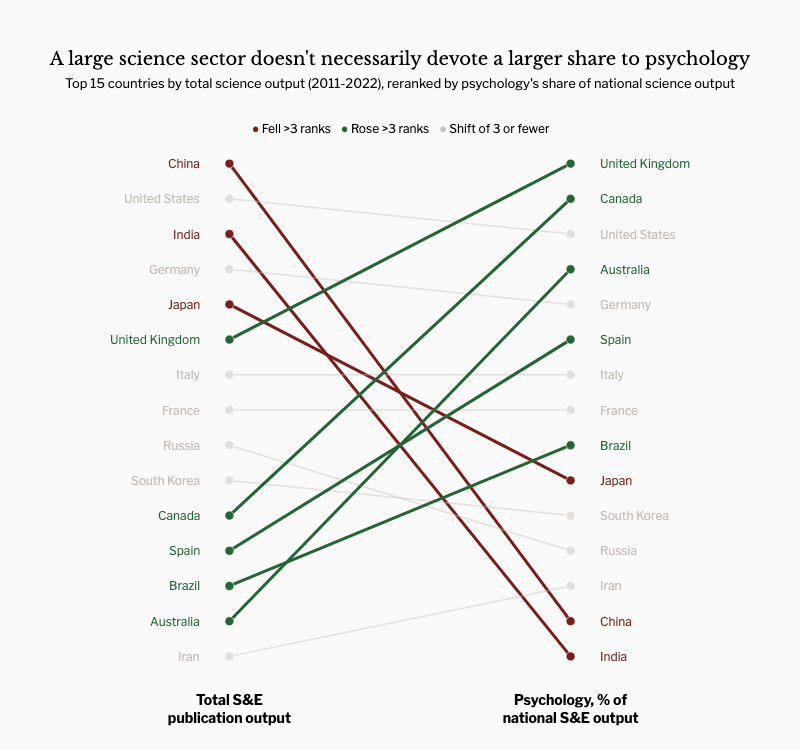
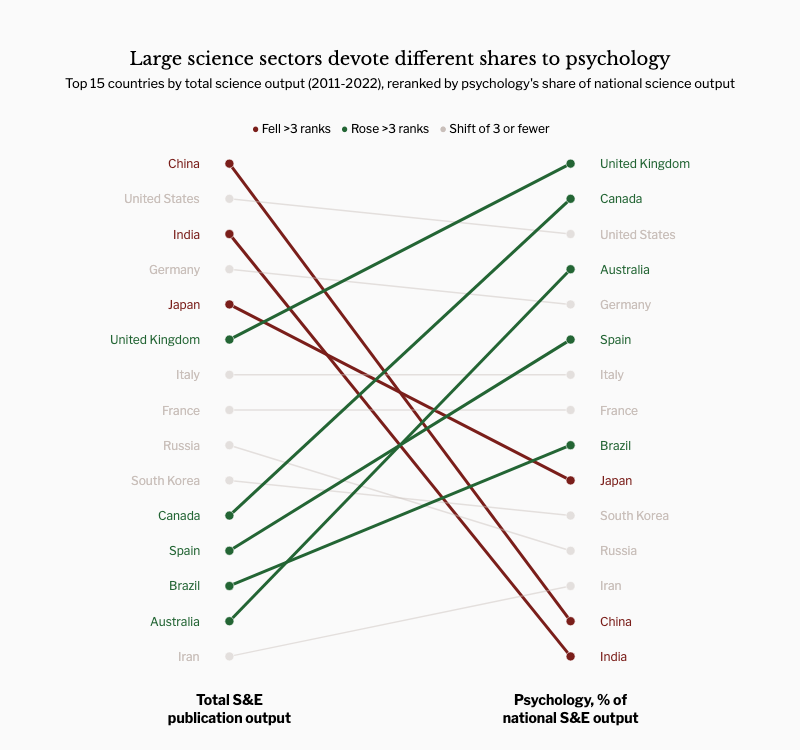
edit rank plot and rho to clarify implications of science vs psych share

Changed region(s): [[0.0625, 0.0613, 0.9375, 0.092]]

diff --git a/docs/chart-data.js b/docs/chart-data.js
@@ -78,21 +78,21 @@ window.CHART_SPECS = [
 }},
 {"id": "c2",
  "data": [
-  {"hovertemplate": "<b>China</b><br>#1 in total science output<br>#14 by psychology's share of national science output<extra></extra>", "line": {"color": "#7A1E1A", "width": 3}, "marker": {"color": "#7A1E1A", "line": {"color": "white", "width": 0.6}, "size": 9}, "mode": "lines+markers", "opacity": 1.0, "showlegend": false, "x": [0, 1], "y": [1.0, 14.0], "type": "scatter"},
-  {"hovertemplate": "<b>United States</b><br>#2 in total science output<br>#3 by psychology's share of national science output<extra></extra>", "line": {"color": "#C9BFBA", "width": 1.5}, "marker": {"color": "#C9BFBA", "line": {"color": "white", "width": 0.6}, "size": 9}, "mode": "lines+markers", "opacity": 0.45, "showlegend": false, "x": [0, 1], "y": [2.0, 3.0], "type": "scatter"},
-  {"hovertemplate": "<b>India</b><br>#3 in total science output<br>#15 by psychology's share of national science output<extra></extra>", "line": {"color": "#7A1E1A", "width": 3}, "marker": {"color": "#7A1E1A", "line": {"color": "white", "width": 0.6}, "size": 9}, "mode": "lines+markers", "opacity": 1.0, "showlegend": false, "x": [0, 1], "y": [3.0, 15.0], "type": "scatter"},
-  {"hovertemplate": "<b>Germany</b><br>#4 in total science output<br>#5 by psychology's share of national science output<extra></extra>", "line": {"color": "#C9BFBA", "width": 1.5}, "marker": {"color": "#C9BFBA", "line": {"color": "white", "width": 0.6}, "size": 9}, "mode": "lines+markers", "opacity": 0.45, "showlegend": false, "x": [0, 1], "y": [4.0, 5.0], "type": "scatter"},
-  {"hovertemplate": "<b>Japan</b><br>#5 in total science output<br>#10 by psychology's share of national science output<extra></extra>", "line": {"color": "#7A1E1A", "width": 3}, "marker": {"color": "#7A1E1A", "line": {"color": "white", "width": 0.6}, "size": 9}, "mode": "lines+markers", "opacity": 1.0, "showlegend": false, "x": [0, 1], "y": [5.0, 10.0], "type": "scatter"},
-  {"hovertemplate": "<b>United Kingdom</b><br>#6 in total science output<br>#1 by psychology's share of national science output<extra></extra>", "line": {"color": "#236534", "width": 3}, "marker": {"color": "#236534", "line": {"color": "white", "width": 0.6}, "size": 9}, "mode": "lines+markers", "opacity": 1.0, "showlegend": false, "x": [0, 1], "y": [6.0, 1.0], "type": "scatter"},
-  {"hovertemplate": "<b>Italy</b><br>#7 in total science output<br>#7 by psychology's share of national science output<extra></extra>", "line": {"color": "#C9BFBA", "width": 1.5}, "marker": {"color": "#C9BFBA", "line": {"color": "white", "width": 0.6}, "size": 9}, "mode": "lines+markers", "opacity": 0.45, "showlegend": false, "x": [0, 1], "y": [7.0, 7.0], "type": "scatter"},
-  {"hovertemplate": "<b>France</b><br>#8 in total science output<br>#8 by psychology's share of national science output<extra></extra>", "line": {"color": "#C9BFBA", "width": 1.5}, "marker": {"color": "#C9BFBA", "line": {"color": "white", "width": 0.6}, "size": 9}, "mode": "lines+markers", "opacity": 0.45, "showlegend": false, "x": [0, 1], "y": [8.0, 8.0], "type": "scatter"},
-  {"hovertemplate": "<b>Russia</b><br>#9 in total science output<br>#12 by psychology's share of national science output<extra></extra>", "line": {"color": "#C9BFBA", "width": 1.5}, "marker": {"color": "#C9BFBA", "line": {"color": "white", "width": 0.6}, "size": 9}, "mode": "lines+markers", "opacity": 0.45, "showlegend": false, "x": [0, 1], "y": [9.0, 12.0], "type": "scatter"},
-  {"hovertemplate": "<b>South Korea</b><br>#10 in total science output<br>#11 by psychology's share of national science output<extra></extra>", "line": {"color": "#C9BFBA", "width": 1.5}, "marker": {"color": "#C9BFBA", "line": {"color": "white", "width": 0.6}, "size": 9}, "mode": "lines+markers", "opacity": 0.45, "showlegend": false, "x": [0, 1], "y": [10.0, 11.0], "type": "scatter"},
-  {"hovertemplate": "<b>Canada</b><br>#11 in total science output<br>#2 by psychology's share of national science output<extra></extra>", "line": {"color": "#236534", "width": 3}, "marker": {"color": "#236534", "line": {"color": "white", "width": 0.6}, "size": 9}, "mode": "lines+markers", "opacity": 1.0, "showlegend": false, "x": [0, 1], "y": [11.0, 2.0], "type": "scatter"},
-  {"hovertemplate": "<b>Spain</b><br>#12 in total science output<br>#6 by psychology's share of national science output<extra></extra>", "line": {"color": "#236534", "width": 3}, "marker": {"color": "#236534", "line": {"color": "white", "width": 0.6}, "size": 9}, "mode": "lines+markers", "opacity": 1.0, "showlegend": false, "x": [0, 1], "y": [12.0, 6.0], "type": "scatter"},
-  {"hovertemplate": "<b>Brazil</b><br>#13 in total science output<br>#9 by psychology's share of national science output<extra></extra>", "line": {"color": "#236534", "width": 3}, "marker": {"color": "#236534", "line": {"color": "white", "width": 0.6}, "size": 9}, "mode": "lines+markers", "opacity": 1.0, "showlegend": false, "x": [0, 1], "y": [13.0, 9.0], "type": "scatter"},
-  {"hovertemplate": "<b>Australia</b><br>#14 in total science output<br>#4 by psychology's share of national science output<extra></extra>", "line": {"color": "#236534", "width": 3}, "marker": {"color": "#236534", "line": {"color": "white", "width": 0.6}, "size": 9}, "mode": "lines+markers", "opacity": 1.0, "showlegend": false, "x": [0, 1], "y": [14.0, 4.0], "type": "scatter"},
-  {"hovertemplate": "<b>Iran</b><br>#15 in total science output<br>#13 by psychology's share of national science output<extra></extra>", "line": {"color": "#C9BFBA", "width": 1.5}, "marker": {"color": "#C9BFBA", "line": {"color": "white", "width": 0.6}, "size": 9}, "mode": "lines+markers", "opacity": 0.45, "showlegend": false, "x": [0, 1], "y": [15.0, 13.0], "type": "scatter"}
+  {"hovertemplate": "<b>China</b><br>#1 in total science output<br>#14 by psychology's share of national science output (0.5%)<extra></extra>", "line": {"color": "#7A1E1A", "width": 3}, "marker": {"color": "#7A1E1A", "line": {"color": "white", "width": 0.6}, "size": 9}, "mode": "lines+markers", "opacity": 1.0, "showlegend": false, "x": [0, 1], "y": [1.0, 14.0], "type": "scatter"},
+  {"hovertemplate": "<b>United States</b><br>#2 in total science output<br>#3 by psychology's share of national science output (3.8%)<extra></extra>", "line": {"color": "#C9BFBA", "width": 1.5}, "marker": {"color": "#C9BFBA", "line": {"color": "white", "width": 0.6}, "size": 9}, "mode": "lines+markers", "opacity": 0.45, "showlegend": false, "x": [0, 1], "y": [2.0, 3.0], "type": "scatter"},
+  {"hovertemplate": "<b>India</b><br>#3 in total science output<br>#15 by psychology's share of national science output (0.3%)<extra></extra>", "line": {"color": "#7A1E1A", "width": 3}, "marker": {"color": "#7A1E1A", "line": {"color": "white", "width": 0.6}, "size": 9}, "mode": "lines+markers", "opacity": 1.0, "showlegend": false, "x": [0, 1], "y": [3.0, 15.0], "type": "scatter"},
+  {"hovertemplate": "<b>Germany</b><br>#4 in total science output<br>#5 by psychology's share of national science output (2.9%)<extra></extra>", "line": {"color": "#C9BFBA", "width": 1.5}, "marker": {"color": "#C9BFBA", "line": {"color": "white", "width": 0.6}, "size": 9}, "mode": "lines+markers", "opacity": 0.45, "showlegend": false, "x": [0, 1], "y": [4.0, 5.0], "type": "scatter"},
+  {"hovertemplate": "<b>Japan</b><br>#5 in total science output<br>#10 by psychology's share of national science output (1%)<extra></extra>", "line": {"color": "#7A1E1A", "width": 3}, "marker": {"color": "#7A1E1A", "line": {"color": "white", "width": 0.6}, "size": 9}, "mode": "lines+markers", "opacity": 1.0, "showlegend": false, "x": [0, 1], "y": [5.0, 10.0], "type": "scatter"},
+  {"hovertemplate": "<b>United Kingdom</b><br>#6 in total science output<br>#1 by psychology's share of national science output (4%)<extra></extra>", "line": {"color": "#236534", "width": 3}, "marker": {"color": "#236534", "line": {"color": "white", "width": 0.6}, "size": 9}, "mode": "lines+markers", "opacity": 1.0, "showlegend": false, "x": [0, 1], "y": [6.0, 1.0], "type": "scatter"},
+  {"hovertemplate": "<b>Italy</b><br>#7 in total science output<br>#7 by psychology's share of national science output (2.3%)<extra></extra>", "line": {"color": "#C9BFBA", "width": 1.5}, "marker": {"color": "#C9BFBA", "line": {"color": "white", "width": 0.6}, "size": 9}, "mode": "lines+markers", "opacity": 0.45, "showlegend": false, "x": [0, 1], "y": [7.0, 7.0], "type": "scatter"},
+  {"hovertemplate": "<b>France</b><br>#8 in total science output<br>#8 by psychology's share of national science output (2.2%)<extra></extra>", "line": {"color": "#C9BFBA", "width": 1.5}, "marker": {"color": "#C9BFBA", "line": {"color": "white", "width": 0.6}, "size": 9}, "mode": "lines+markers", "opacity": 0.45, "showlegend": false, "x": [0, 1], "y": [8.0, 8.0], "type": "scatter"},
+  {"hovertemplate": "<b>Russia</b><br>#9 in total science output<br>#12 by psychology's share of national science output (0.7%)<extra></extra>", "line": {"color": "#C9BFBA", "width": 1.5}, "marker": {"color": "#C9BFBA", "line": {"color": "white", "width": 0.6}, "size": 9}, "mode": "lines+markers", "opacity": 0.45, "showlegend": false, "x": [0, 1], "y": [9.0, 12.0], "type": "scatter"},
+  {"hovertemplate": "<b>South Korea</b><br>#10 in total science output<br>#11 by psychology's share of national science output (0.7%)<extra></extra>", "line": {"color": "#C9BFBA", "width": 1.5}, "marker": {"color": "#C9BFBA", "line": {"color": "white", "width": 0.6}, "size": 9}, "mode": "lines+markers", "opacity": 0.45, "showlegend": false, "x": [0, 1], "y": [10.0, 11.0], "type": "scatter"},
+  {"hovertemplate": "<b>Canada</b><br>#11 in total science output<br>#2 by psychology's share of national science output (3.9%)<extra></extra>", "line": {"color": "#236534", "width": 3}, "marker": {"color": "#236534", "line": {"color": "white", "width": 0.6}, "size": 9}, "mode": "lines+markers", "opacity": 1.0, "showlegend": false, "x": [0, 1], "y": [11.0, 2.0], "type": "scatter"},
+  {"hovertemplate": "<b>Spain</b><br>#12 in total science output<br>#6 by psychology's share of national science output (2.8%)<extra></extra>", "line": {"color": "#236534", "width": 3}, "marker": {"color": "#236534", "line": {"color": "white", "width": 0.6}, "size": 9}, "mode": "lines+markers", "opacity": 1.0, "showlegend": false, "x": [0, 1], "y": [12.0, 6.0], "type": "scatter"},
+  {"hovertemplate": "<b>Brazil</b><br>#13 in total science output<br>#9 by psychology's share of national science output (1.3%)<extra></extra>", "line": {"color": "#236534", "width": 3}, "marker": {"color": "#236534", "line": {"color": "white", "width": 0.6}, "size": 9}, "mode": "lines+markers", "opacity": 1.0, "showlegend": false, "x": [0, 1], "y": [13.0, 9.0], "type": "scatter"},
+  {"hovertemplate": "<b>Australia</b><br>#14 in total science output<br>#4 by psychology's share of national science output (3.4%)<extra></extra>", "line": {"color": "#236534", "width": 3}, "marker": {"color": "#236534", "line": {"color": "white", "width": 0.6}, "size": 9}, "mode": "lines+markers", "opacity": 1.0, "showlegend": false, "x": [0, 1], "y": [14.0, 4.0], "type": "scatter"},
+  {"hovertemplate": "<b>Iran</b><br>#15 in total science output<br>#13 by psychology's share of national science output (0.6%)<extra></extra>", "line": {"color": "#C9BFBA", "width": 1.5}, "marker": {"color": "#C9BFBA", "line": {"color": "white", "width": 0.6}, "size": 9}, "mode": "lines+markers", "opacity": 0.45, "showlegend": false, "x": [0, 1], "y": [15.0, 13.0], "type": "scatter"}
  ],
  "layout": {
   "template": {

diff --git a/docs/index.html b/docs/index.html
@@ -36,11 +36,10 @@
 
 <h3>Key findings (2016&ndash;2022 subset)</h3>
 <ul>
-  <li>1</li>
-  <li>2</li>
-  <li>3</li>
-  <li>4</li>
-  <li>5</li>
+  <li>The US produced nearly twice as much of the world's psychology (33.8%) as science (17.4%) with only 4.3% of the global population.</li>
+  <li>China produced four times as much science (20.2%) as it did psychology (4.7%).</li>
+  <li>Top producers of science don't all choose to contribute to psychology at the same rate.</li>
+  <li>WEIRD countries maintain their dominance on the world psychology stage, though China has recently gained traction.</li>
 </ul>
 
 <p>Between 2016 and 2022, 56.5% of the world's psychology publications came from 5 wealthy countries: the US, the UK, Germany, China, and Canada. US-affiliated authors contributed to 31.7% of publications with only 4.2% of the population. The UK, Germany, and Canada contributed at a similar rate relative to their populations, though China did not: US contributions were 5 times that of China, who has a population over 4 times larger. Though it is expected that China contributes a smaller share given their own domestic database, their publications across all S&E topics is 1.4 times that of the US. In psychology specifically, China contributes less to Scopus, though this analysis cannot determine if that is database-specific or a larger pattern in their country's research portfolio.</p>
